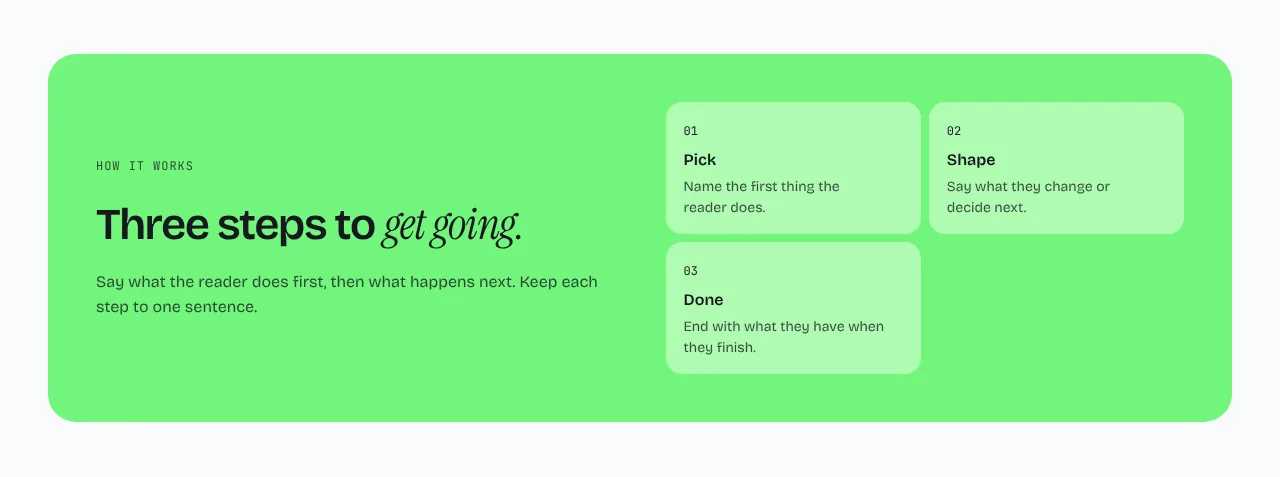
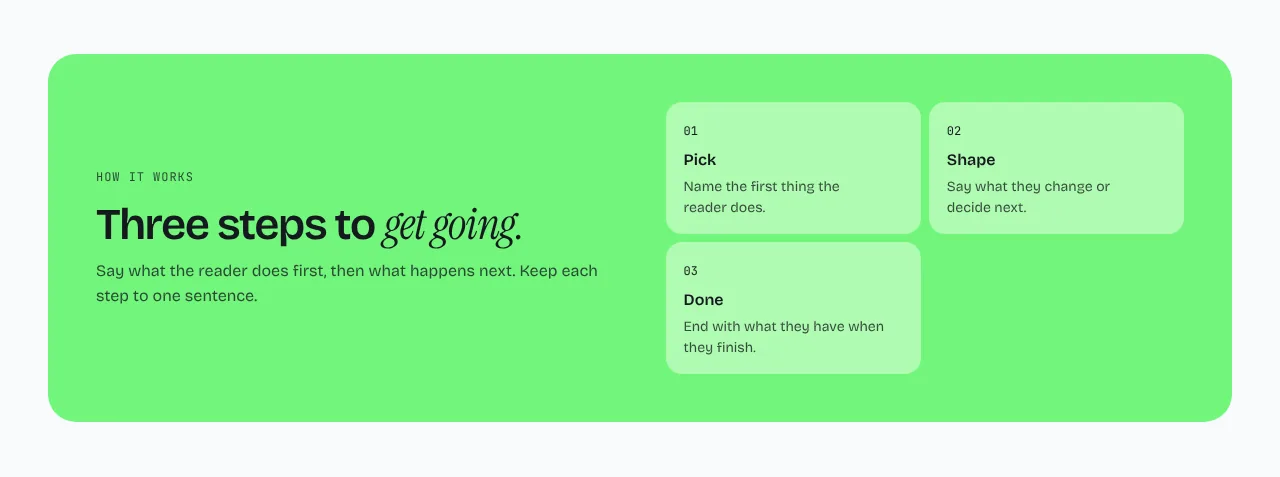
Re-take the Steps panel screenshot, and have the site sync keep the Changelog section and section counts current

Changed region(s): [[0.0625, 0.5577, 0.4688, 0.6751], [0.0625, 0.3229, 0.1562, 0.3816]]

diff --git a/.claude/skills/sync-site-version/SKILL.md b/.claude/skills/sync-site-version/SKILL.md
@@ -26,7 +26,7 @@ grep -rnE "BearMinion v?[0-9]+\.[0-9]+|bearminion@[0-9^~]|create-bearminion@[0-9
 
 Ignore: `0.0.0` placeholders, tarball example file names (`bearminion-1.0.0.tgz`), dependency ranges in `package.json` and changelogs. Everything else must match the version this pull request releases or be rewritten without a number ("latest").
 
-Known place: the hero badge in `apps/web/content/pages/index.json` (`tag`, for example "BearMinion 1.4 · Available now"; its `href` points at the GitHub releases page).
+Known places: the hero badge in `apps/web/content/pages/index.json` (`tag`, for example "BearMinion 1.4 · Available now"; its `href` points at the GitHub releases page), and the latest release in the Changelog section of the same file.
 
 ## What to update when code changes
 
@@ -40,6 +40,7 @@ Known place: the hero badge in `apps/web/content/pages/index.json` (`tag`, for e
 | `create-bearminion` flags, prompts, output | `docs/getting-started.md`, `packages/create-bearminion/README.md` |
 | New or changed template section | `docs/sections.md` (layouts, options, content, and the screenshots in `docs/images/sections/`), `templates/default/README.md`, then `apps/web` content if the site should use it |
 | Any user-facing feature | Claims on bearminion.com: features, FAQ, stats, hero, video label |
+| A release, or a pull request that ships one | The Changelog section on bearminion.com (`apps/web/content/pages/index.json`, id `changelog`): the release this pull request ships first, the two before it after, each with a title, three lines and its `CHANGELOG.md` anchor; the hero demo's trust line (`17 sections · 50 layouts`) when the counts change |
 
 Rules:
 
